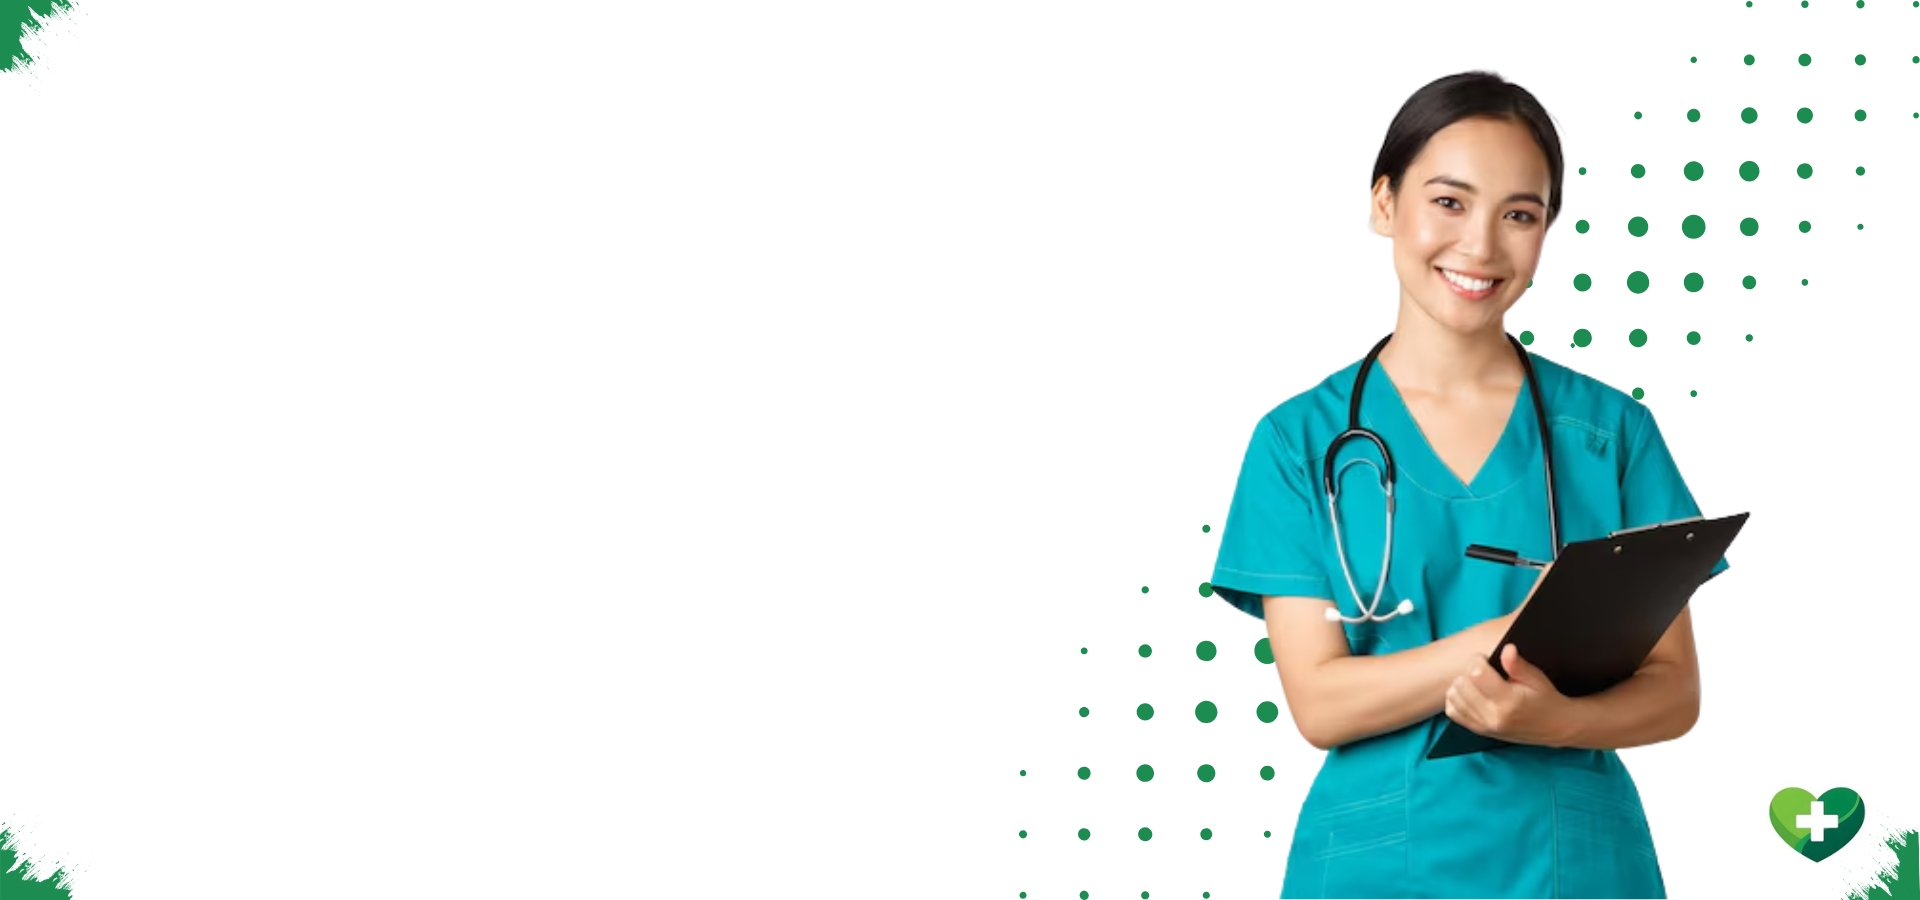
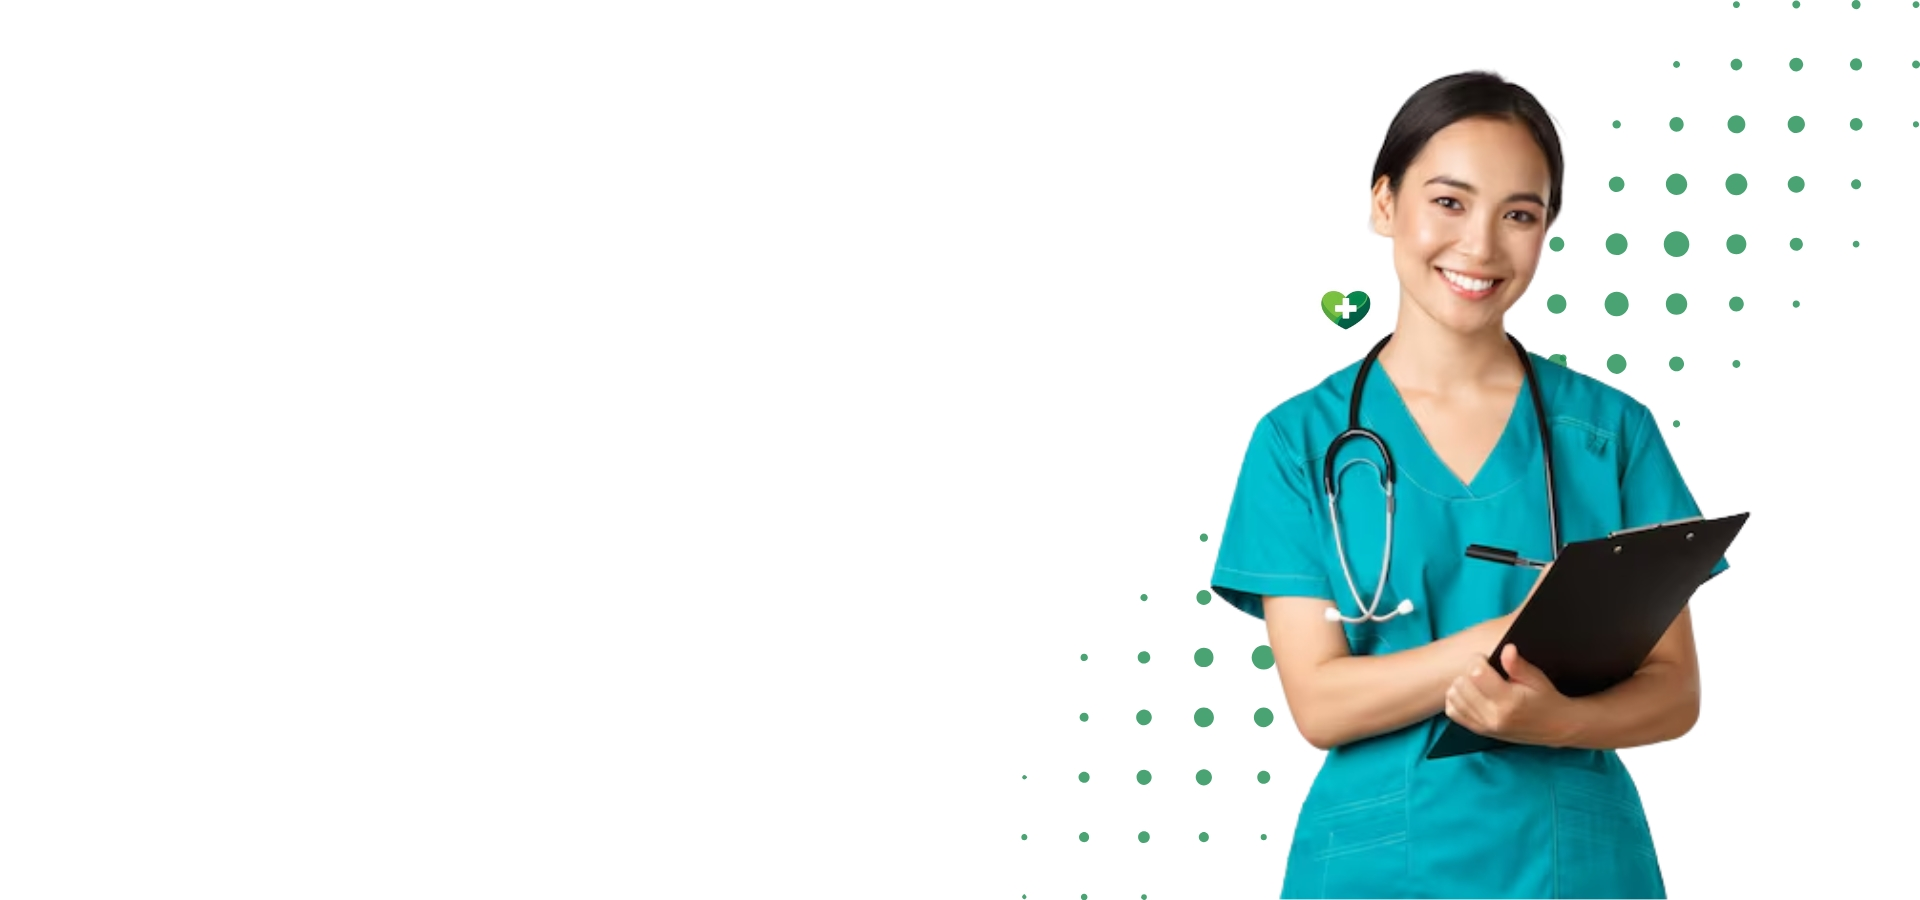
ok

diff --git a/index.html b/index.html
@@ -446,7 +446,7 @@
       display: flex;
       flex-direction: column;
       justify-content: center;
-      padding: 60px 48px 100px 80px;
+      padding: 60px 48px 100px 96px;
       max-width: 600px;
       width: 100%;
       margin-left: 0;
@@ -479,6 +479,7 @@
       margin-bottom: 16px;
     }
     .slide-title .highlight { color: var(--green-primary); }
+    .slide-title .nowrap { white-space: nowrap; }
 
     .slide-sub {
       font-size: 1.05rem;
@@ -528,7 +529,7 @@
     .hero-controls {
       position: absolute;
       bottom: 36px;
-      left: 80px;
+      left: 96px;
       display: flex;
       align-items: center;
       gap: 14px;
@@ -1566,7 +1567,7 @@
         );
       }
       .slide-content {
-        padding: 36px 24px 90px 28px;
+        padding: 36px 32px 90px 36px;
         max-width: 100%;
         margin-left: 0;
         justify-content: flex-end;
@@ -1580,8 +1581,9 @@
       .slide-title { color: white; font-size: clamp(1.55rem, 6.5vw, 2rem); text-shadow: 0 2px 10px rgba(0,0,0,.3); }
       .slide-title .highlight { color: #6ee89a; }
       .slide-sub { color: rgba(255,255,255,.88); font-size: .9rem; }
+      .slide-cta { align-self: center; }
       /* Setas e dots — estilo claro para fundo escuro */
-      .hero-controls { left: 24px; bottom: 22px; gap: 10px; }
+      .hero-controls { left: 36px; bottom: 22px; gap: 10px; }
       .hero-arrow {
         width: 36px; height: 36px;
         background: rgba(255,255,255,.15);
@@ -1747,11 +1749,11 @@
         <div class="slide-overlay" aria-hidden="true"></div>
         <div class="slide-content">
           <span class="slide-tag">
-            <i class="fas fa-shield-check" aria-hidden="true"></i>
+            <i class="fas fa-location-dot" aria-hidden="true"></i>
             Atendimento particular · São Paulo
           </span>
           <h1 class="slide-title">
-            Cuidado domiciliar <span class="highlight">seguro</span> e humanizado para quem você ama
+            Cuidado domiciliar <span class="nowrap"><span class="highlight">seguro</span> e humanizado</span> <span class="nowrap">para quem você ama</span>
           </h1>
           <p class="slide-sub">
             Profissionais capacitados, suporte humanizado e cuidado personalizado no conforto do lar.
@@ -1777,7 +1779,9 @@
             Equipe qualificada disponível
           </span>
           <h1 class="slide-title">
-            Enfermagem domiciliar com <span class="highlight">profissionalismo</span> e cuidado real
+            <span class="nowrap">Enfermagem domiciliar</span><br>
+            <span class="nowrap">com <span class="highlight">profissionalismo</span></span><br>
+            <span class="nowrap">e cuidado real</span>
           </h1>
           <p class="slide-sub">
             Atendimento técnico e humanizado no conforto do lar, com acompanhamento próximo e seguro.
@@ -1803,7 +1807,7 @@
             Cuidado humanizado
           </span>
           <h1 class="slide-title">
-            Acompanhamento <span class="highlight">contínuo</span> para sua família ter tranquilidade
+            Acompanhamento <span class="highlight">contínuo</span> para sua <span class="nowrap">família ter tranquilidade</span>
           </h1>
           <p class="slide-sub">
             Suporte com profissionais dedicados para o cuidado frequente e prolongado do seu familiar.